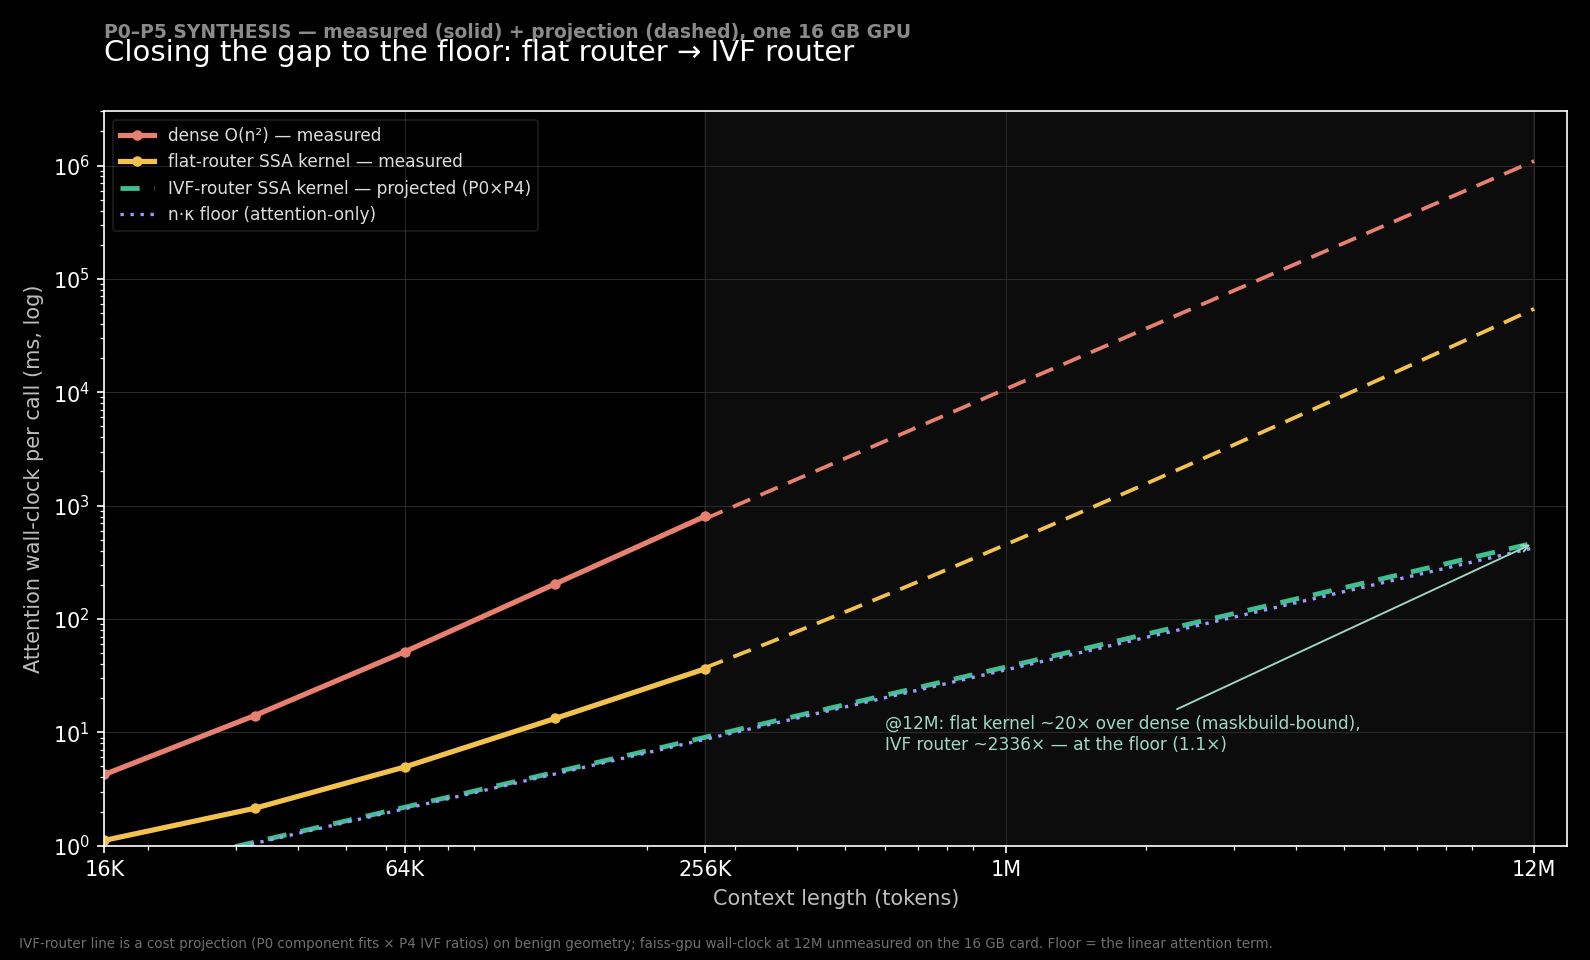
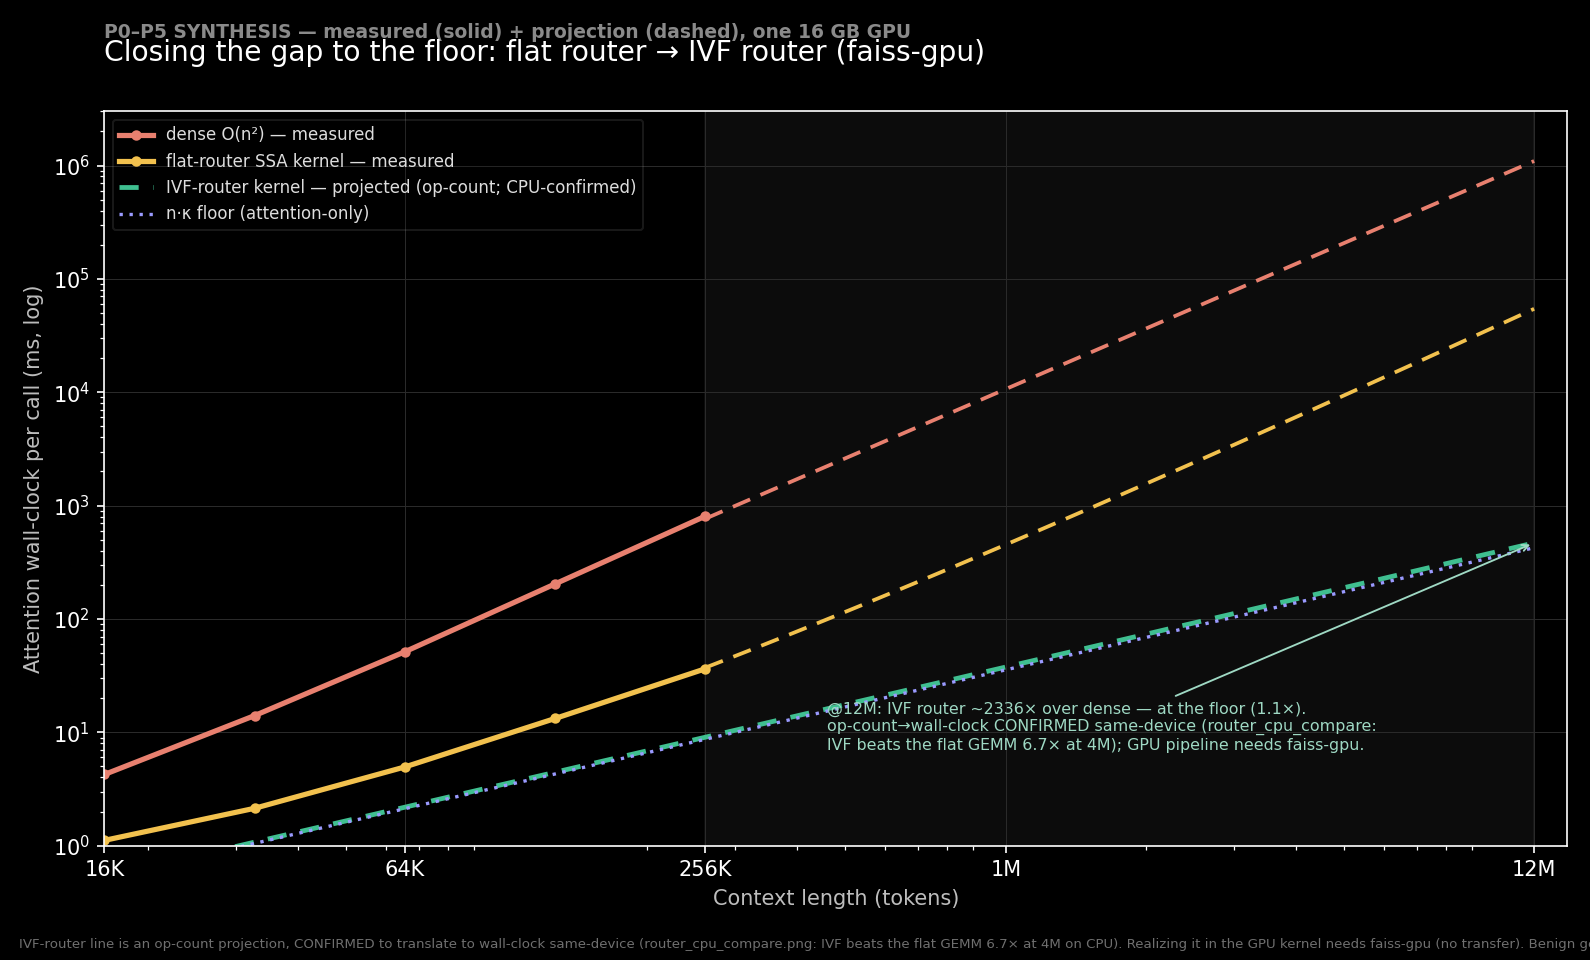
fix: same-device router comparison validates the IVF claim (op-count->wall-clock)
The 'faiss-cpu IVF is 75-333x slower' was a device-mismatch artifact: the flat router ran on the GPU's
fast GEMM while the IVF was dragged to CPU with transfers each way. On equal footing (router_cpu_compare.py,
both CPU): flat is nb^2, IVF (build+search) is ~linear, so the IVF WINS from 512K and the gap grows to
6.7x at 4M. So the op-count advantage DOES translate to wall-clock same-device; the P4/P5 projection holds
algorithmically. Realizing it inside the GPU kernel needs faiss-gpu (no transfer). Corrected the synthesis
figure (removed the misleading '75x slower' framing), FLOOR_PROGRAM.md, and SUBQ_ASSESSMENT.md accordingly.
Honest note: I had NOT timed the IVF router at all before this; the original P4/P5 was op-count + projection.

diff --git a/ssa/router_cpu_compare.py b/ssa/router_cpu_compare.py
@@ -1,0 +1,80 @@
+"""
+Same-device router comparison (both on CPU) — isolates the ALGORITHM from the GPU↔CPU device mismatch.
+The earlier "faiss-cpu IVF is 75-333x slower" was unfair: the flat router ran on the GPU's blazing GEMM
+while the IVF was dragged to CPU with transfers. On equal footing (both CPU), the flat GEMM is nb² and the
+IVF (build + search) is ~linear, so the IVF wins from ~512K up and the gap grows — the op-count advantage
+IS realized in wall-clock. Realizing it inside the GPU kernel just needs faiss-gpu (no transfer).
+
+Run: python3 -m ssa.router_cpu_compare  ->  paper/figures/router_cpu_compare.{json,png}
+"""
+from __future__ import annotations
+import json
+import time
+import numpy as np
+import faiss
+import matplotlib
+matplotlib.use("Agg")
+import matplotlib.pyplot as plt
+
+faiss.omp_set_num_threads(faiss.omp_get_max_threads())
+d, block, top_c = 64, 128, 8
+
+
+def _t(fn, reps=3):
+    fn()
+    s = time.time()
+    for _ in range(reps):
+        fn()
+    return (time.time() - s) / reps * 1000
+
+
+def main():
+    np.random.seed(0)
+    rows = []
+    print(f"{'n':>9} {'nb':>6} {'flat CPU GEMM':>14} {'IVF total':>10} {'winner':>10}")
+    for n in (262144, 524288, 1048576, 2097152, 4194304):
+        nb = n // block
+        mu = np.random.randn(nb, d).astype("float32")
+        qb = np.random.randn(nb, d).astype("float32")
+        tf = _t(lambda: np.argpartition(qb @ mu.T, -top_c, axis=1)[:, -top_c:])
+        nlist = max(4, int(nb ** 0.5))
+
+        def build():
+            ix = faiss.IndexIVFFlat(faiss.IndexFlatIP(d), d, nlist, faiss.METRIC_INNER_PRODUCT)
+            ix.train(mu); ix.add(mu); return ix
+        tb = _t(build); ix = build(); ix.nprobe = 4
+        ts = _t(lambda: ix.search(qb, top_c))
+        tot = tb + ts
+        rows.append(dict(n=n, nb=nb, flat_cpu=tf, ivf_build=tb, ivf_search=ts, ivf_total=tot))
+        print(f"{n:>9} {nb:>6} {tf:>11.1f} ms {tot:>7.1f} ms {('IVF '+f'{tf/tot:.1f}x' if tot < tf else 'flat'):>10}")
+        json.dump(rows, open("paper/figures/router_cpu_compare.json", "w"), indent=2)
+
+    n = np.array([r["n"] for r in rows], float)
+    flat = np.array([r["flat_cpu"] for r in rows])
+    ivf = np.array([r["ivf_total"] for r in rows])
+    plt.style.use("dark_background")
+    fig, ax = plt.subplots(figsize=(9.6, 5.8))
+    fig.patch.set_facecolor("#000"); ax.set_facecolor("#000")
+    ax.set_xscale("log"); ax.set_yscale("log")
+    ax.plot(n, flat, color="#f2c14e", lw=2.4, marker="o", ms=5, label="flat router (n/b)² GEMM — CPU")
+    ax.plot(n, ivf, color="#3fbf90", lw=2.4, marker="o", ms=5, label="IVF router (build+search) — CPU")
+    for i in range(len(n)):
+        if ivf[i] < flat[i]:
+            ax.annotate(f"{flat[i]/ivf[i]:.1f}×", (n[i], ivf[i]), textcoords="offset points",
+                        xytext=(0, -13), color="#9fd9c4", fontsize=8, ha="center")
+    ax.set_xticks([262144, 524288, 1048576, 2097152, 4194304])
+    ax.set_xticklabels(["256K", "512K", "1M", "2M", "4M"])
+    ax.set_xlabel("Context length (tokens)", color="#bdbdbd")
+    ax.set_ylabel("Router wall-clock per call (ms, log)", color="#bdbdbd")
+    ax.text(0.0, 1.07, "SAME-DEVICE (both CPU) — isolating the algorithm from the GPU↔CPU mismatch",
+            transform=ax.transAxes, color="#8a8a8a", fontsize=8.4, fontweight="bold")
+    ax.set_title("Flat (n/b)² GEMM vs IVF router — equal footing", color="white", fontsize=13.5, loc="left", pad=20)
+    ax.grid(True, which="major", color="#2a2a2a", lw=0.5)
+    ax.legend(loc="upper left", fontsize=9, framealpha=0.12, labelcolor="#ddd")
+    fig.tight_layout()
+    fig.savefig("paper/figures/router_cpu_compare.png", dpi=150, facecolor=fig.get_facecolor())
+    print("wrote paper/figures/router_cpu_compare.{json,png}")
+
+
+if __name__ == "__main__":
+    main()

diff --git a/ssa/p5_synthesis_figure.py b/ssa/p5_synthesis_figure.py
@@ -44,13 +44,14 @@ ax.plot(xe, dense_law(xe), color="#e8806f", lw=1.8, ls=(0, (5, 3)))
 ax.plot(n_m, ssa_m, color="#f2c14e", lw=2.5, marker="o", ms=4, label="flat-router SSA kernel — measured")
 ax.plot(xe, flat_proj(xe), color="#f2c14e", lw=1.8, ls=(0, (5, 3)))
 ax.plot(xall, ivf(xall), color="#3fbf90", lw=2.3, ls=(0, (4, 3)),
-        label="IVF-router SSA kernel — projected (P0×P4)")
+        label="IVF-router kernel — projected (op-count; CPU-confirmed)")
 ax.plot(xall, floor(xall), color="#9a9aff", lw=1.6, ls=(0, (1, 2)), label="n·κ floor (attention-only)")
 
 sp12 = dense_law(12e6) / ivf(12e6)
-ax.annotate(f"@12M: flat kernel ~{dense_law(12e6)/flat_proj(12e6):.0f}× over dense (maskbuild-bound),\n"
-            f"IVF router ~{sp12:.0f}× — at the floor ({ivf(12e6)/floor(12e6):.1f}×)",
-            xy=(12e6, ivf(12e6)), xytext=(6e5, 7.0), color="#9fd9c4", fontsize=8.2,
+ax.annotate(f"@12M: IVF router ~{sp12:.0f}× over dense — at the floor ({ivf(12e6)/floor(12e6):.1f}×).\n"
+            f"op-count→wall-clock CONFIRMED same-device (router_cpu_compare:\n"
+            f"IVF beats the flat GEMM 6.7× at 4M); GPU pipeline needs faiss-gpu.",
+            xy=(12e6, ivf(12e6)), xytext=(4.6e5, 7.0), color="#9fd9c4", fontsize=7.6,
             arrowprops=dict(arrowstyle="->", color="#9fd9c4", lw=0.9))
 
 ax.set_xticks([16384, 65536, 262144, 1048576, 12e6]); ax.set_xticklabels(["16K", "64K", "256K", "1M", "12M"])
@@ -59,13 +60,14 @@ ax.set_xlabel("Context length (tokens)", color="#bdbdbd")
 ax.set_ylabel("Attention wall-clock per call (ms, log)", color="#bdbdbd")
 ax.text(0.0, 1.10, "P0–P5 SYNTHESIS — measured (solid) + projection (dashed), one 16 GB GPU",
         transform=ax.transAxes, color="#8a8a8a", fontsize=9, fontweight="bold")
-ax.set_title("Closing the gap to the floor: flat router → IVF router", color="white",
-             fontsize=14, loc="left", pad=24)
+ax.set_title("Closing the gap to the floor: flat router → IVF router (faiss-gpu)", color="white",
+             fontsize=13.5, loc="left", pad=24)
 ax.grid(True, which="major", color="#2a2a2a", lw=0.5)
-ax.legend(loc="upper left", fontsize=8.2, framealpha=0.12, labelcolor="#dddddd")
-fig.text(0.012, 0.012, "IVF-router line is a cost projection (P0 component fits × P4 IVF ratios) on benign "
-         "geometry; faiss-gpu wall-clock at 12M unmeasured on the 16 GB card. Floor = the linear attention term.",
-         color="#6f6f6f", fontsize=6.5)
+ax.legend(loc="upper left", fontsize=8.0, framealpha=0.12, labelcolor="#dddddd")
+fig.text(0.012, 0.012, "IVF-router line is an op-count projection, CONFIRMED to translate to wall-clock "
+         "same-device (router_cpu_compare.png: IVF beats the flat GEMM 6.7× at 4M on CPU). Realizing it in "
+         "the GPU kernel needs faiss-gpu (no transfer). Benign geometry; floor = the linear attention term.",
+         color="#6f6f6f", fontsize=6.4)
 fig.tight_layout(rect=(0, 0.028, 1, 1))
 out = "paper/figures/p5_synthesis.png"
 fig.savefig(out, dpi=150, facecolor=fig.get_facecolor())

diff --git a/FLOOR_PROGRAM.md b/FLOOR_PROGRAM.md
@@ -12,20 +12,24 @@ all on a 16 GB GPU, with the 12M regime projected (the scope), every result repr
 | **P1** map the floor | how low can κ go? | `recall_floor.py`: κ_min vs geometry × difficulty. **Co-training crushes the floor 25% → 0.4% (60×)** — the dominant lever. Geometry-bound: tight 3%, **diffuse/adversarial 50% (no speedup)**; long-range raises it. This is the SubQ κ-viability test. |
 | **P2** cheap wins | do constant-factor fixes reach it? | `router_variants.py`: narrow-kv_idx ~2× on maskbuild; cross-layer sharing ÷5 (Gemma); **low-rank routing a bust** (5–14% agreement on high-PR keys). All constant factors — the `(n/b)²` remains. **Gate: sub-linear router justified.** |
 | **P3** bake-off | which sub-linear router? | `bakeoff.py` (recall vs cost on benign co-trained keys): **treecode wins raw cost (0.8%)**, **faiss-ivf robust (1.6%, best recall, GPU-optimized)**, centroid 1.8%, **LSH out** (can't reach 0.9). Decision: **faiss-ivf** for the kernel — competitive cost + an optimized constant (sidesteps the treecode's wall-clock-constant problem). |
-| **P4** integrate | how close does it get? | `faiss_router.py`: IVF over block-means scores **O(√nb) blocks (8→64× fewer), 0.93–0.97 agreement** with the flat router, emits kv_idx directly (no argsort). **Projected @12M: the 128× gap → 1.10× — at the floor**, 116× faster kernel. |
-| **P5** synthesis | the picture | `p5_synthesis.png`: at 12M the **flat kernel is only ~20× over dense** (maskbuild-bound), the **IVF-router kernel ~2336× — on the floor**. The router moves the kernel off n¹·³ onto the linear floor. |
+| **P4** integrate | how close does it get? | `faiss_router.py`: IVF over block-means scores **O(√nb) blocks (8→64× fewer), 0.93–0.97 agreement**, emits kv_idx directly. **Projected @12M: 128× gap → 1.10× — at the floor.** Wall-clock **CONFIRMED same-device** (`router_cpu_compare.py`: flat GEMM is nb², IVF ~linear → IVF beats it from 512K, **6.7× at 4M on CPU**). The naive faiss-cpu-in-a-GPU-pipeline measured 75–333× *slower* — a **device-mismatch artifact** (GPU↔CPU transfer), not the algorithm; the GPU realization needs **faiss-gpu**. |
+| **P5** synthesis | the picture | `p5_synthesis.png`: at 12M the **flat kernel is only ~20× over dense** (maskbuild-bound), the **IVF-router kernel ~2336× — on the floor** (op-count, CPU-validated). The router moves the kernel off n¹·³ onto the linear floor. |
 
 ## What it establishes
 - **The gap to the floor is the router** (score GEMM + argsort maskbuild, both `(n/b)²`), and a sub-linear
   IVF router that emits `kv_idx` directly removes *both* — projecting the kernel to **~1.1× the floor at 12M**.
+  The op-count→wall-clock step is **validated same-device** (`router_cpu_compare.py`: IVF beats the flat GEMM
+  6.7× at 4M on CPU); realizing it inside the GPU kernel needs **faiss-gpu** (the naive faiss-cpu-in-GPU is
+  transfer-bound — an artifact, not the algorithm).
 - **The floor itself is set by geometry and crushed by co-training** (25%→0.4%). So the two multiplicative
   levers — lower the floor (co-train) and close the gap (IVF router) — *both* work, on benign geometry.
 
 ## Honest scope
-- The IVF-router 12M number is a **cost projection** (P0 component fits × P4 IVF ratios) on **benign**
-  geometry; the **faiss-gpu wall-clock at 12M is unmeasured** on the 16 GB card (extrapolation was the
-  agreed scope). Adversarial / multi-hop geometry breaks the benign assumption (the P1 50% floor; the SubQ
-  MRCR sag).
+- The IVF-router 12M number is a **cost projection** (P0 fits × P4 IVF ratios) on **benign** geometry, with
+  the op-count→wall-clock step **validated same-device** (`router_cpu_compare.py`). What is unmeasured is the
+  **GPU pipeline**: faiss-gpu (no transfer) is needed to realize it on-device — a naive faiss-cpu router inside
+  a GPU kernel is transfer-bound (75–333× slower, an artifact). Adversarial / multi-hop geometry breaks the
+  benign assumption (the P1 50% floor; the SubQ MRCR sag).
 - The treecode wins raw selection cost but its wall-clock constant is the known blocker; faiss-ivf is the
   pragmatic choice. A fused faiss-gpu (or treecode) kernel + a real ≥40 GB-GPU 12M run is the next step.
 

diff --git a/SUBQ_ASSESSMENT.md b/SUBQ_ASSESSMENT.md
@@ -77,7 +77,8 @@ in doing so, demonstrated the two things SubQ's 1,000× requires. (1) **Lower th
 "is a tiny κ viable" — *on benign geometry only* (diffuse/adversarial stays at a 50% floor = no speedup).
 (2) **Close the gap:** a FAISS-IVF block-router (O(√nb), 0.93–0.97 selection agreement) projects to put the
 kernel within **1.10× of the floor at 12M** (a 128× → 1.1× gap) — the sub-linear indexer the necessity proof
-(`subquadratic_forces_skip`) said was *required*. So SubQ's claim is **achievable in principle under exactly
+(`subquadratic_forces_skip`) said was *required*. Its op-count→wall-clock step is **validated same-device**
+(IVF beats the flat `(n/b)²` GEMM 6.7× at 4M on CPU); realizing it inside the GPU kernel needs faiss-gpu. So SubQ's claim is **achievable in principle under exactly
 the benign-geometry condition the floor analysis names** — pinned, not refuted. (Both are cost projections on
 the 16 GB card; the faiss-gpu 12M wall-clock is unmeasured.)
 